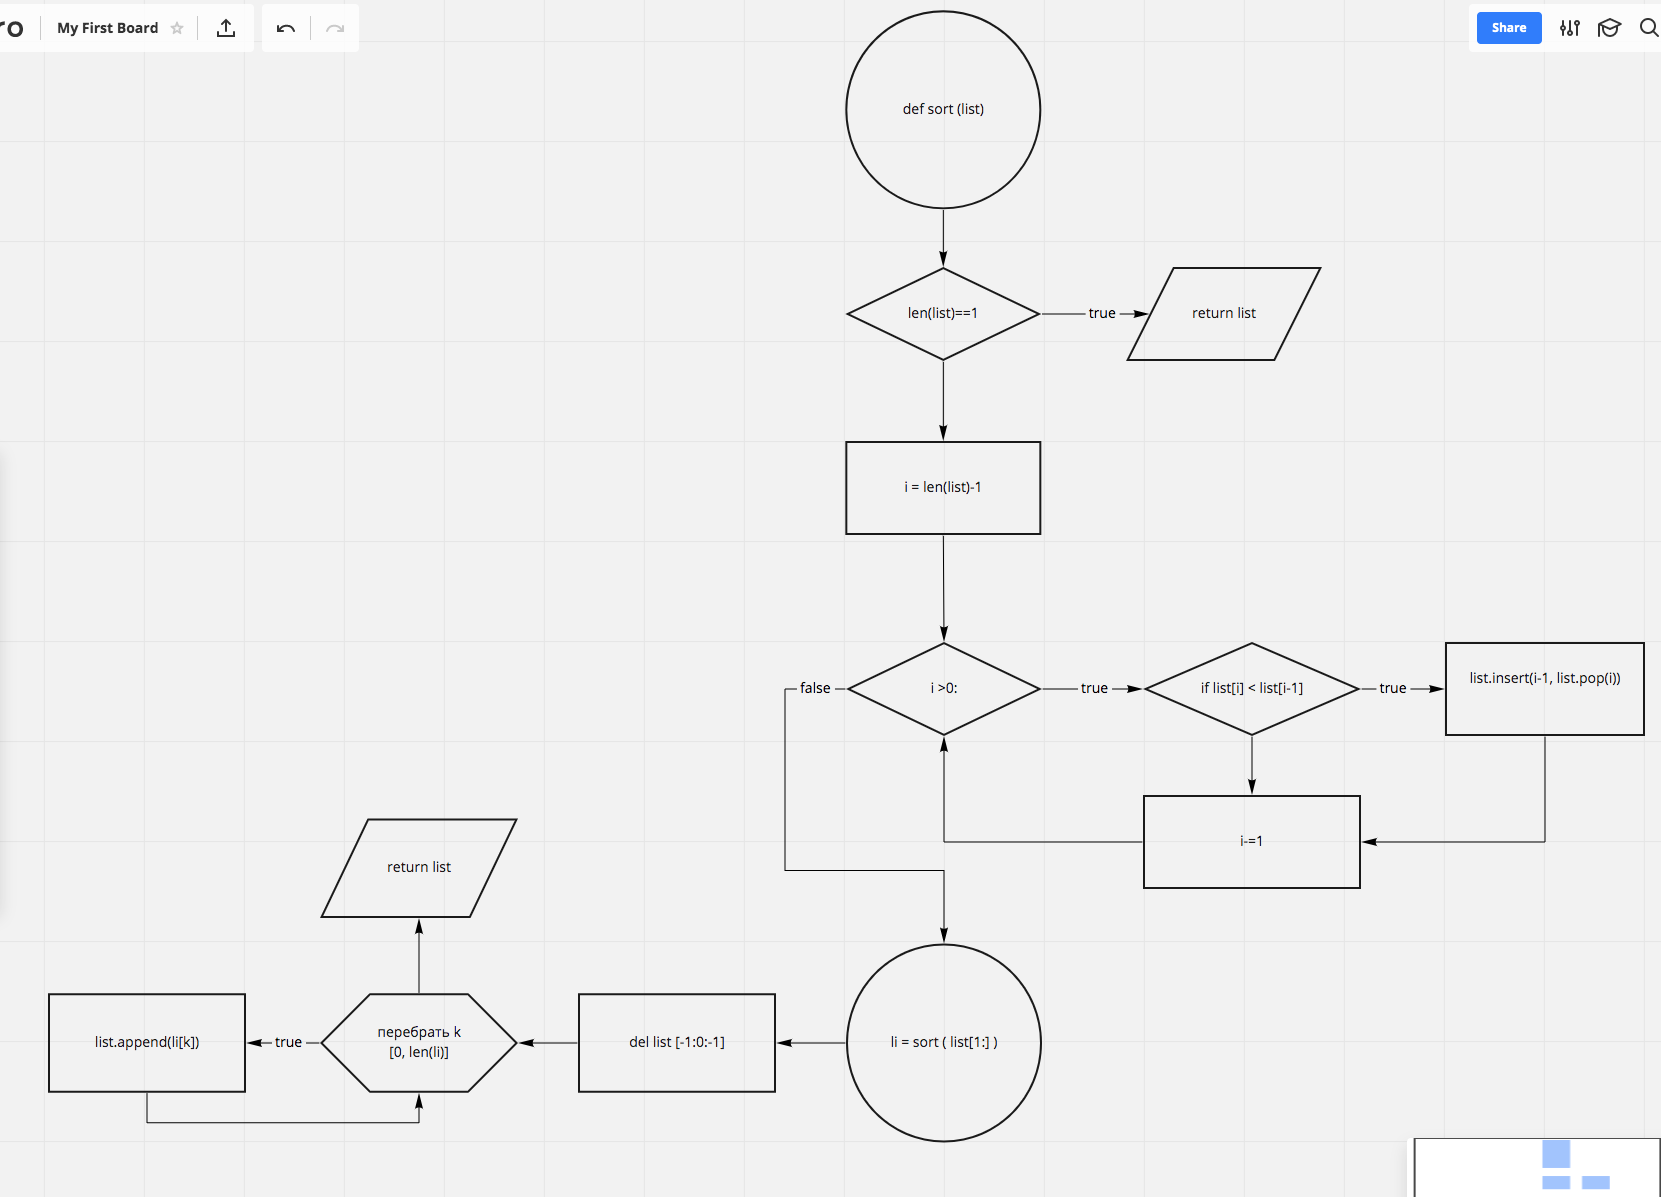
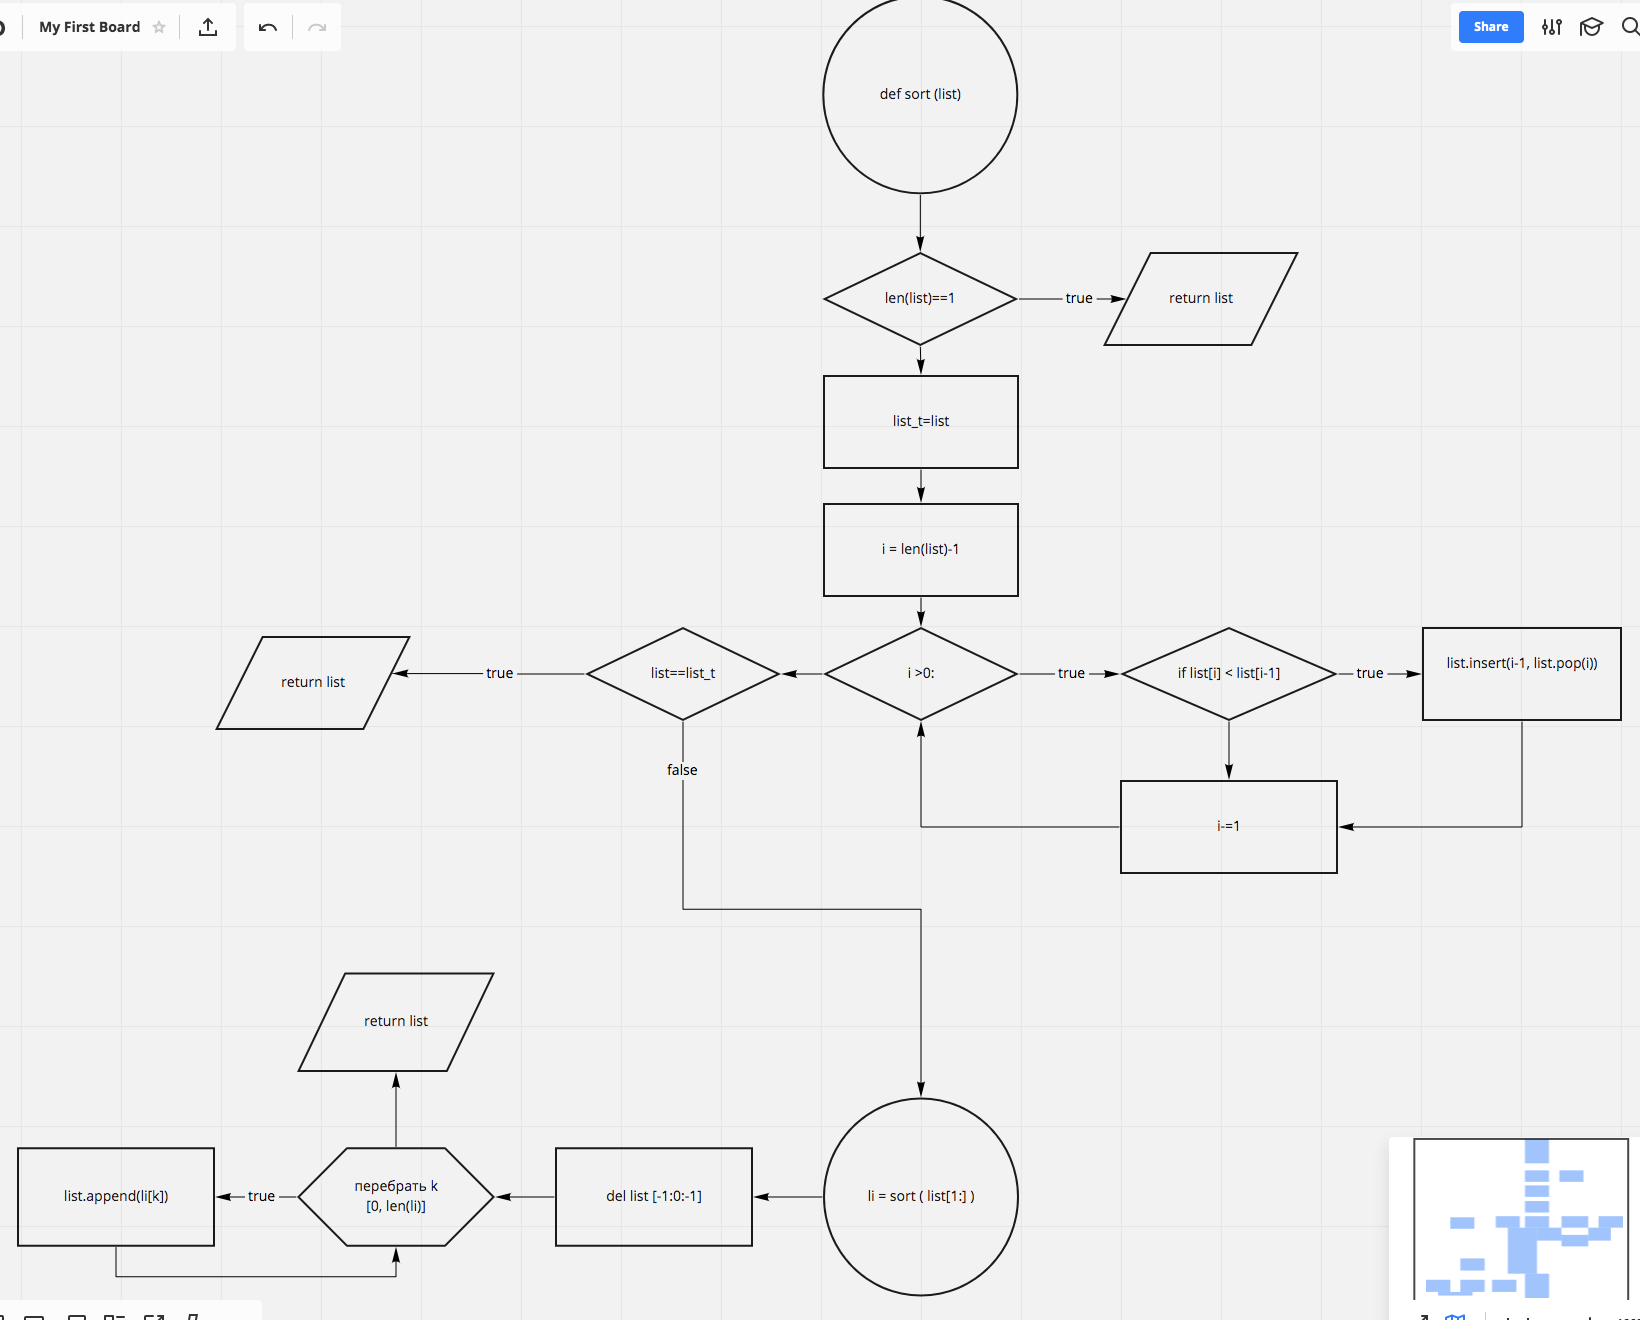
Реализована исходная задача Обновлена блок-схема

diff --git a/program.py b/program.py
@@ -2,6 +2,7 @@ def sort (list):
     if len(list)==1:
         return list
 
+    list_t=list
     i=len(list)-1
 
     while i>0:
@@ -9,14 +10,16 @@ def sort (list):
             list.insert(i-1, list.pop(i))
         i-=1
 
-    li = sort (list[1:])
-    del list[-1:0:-1]
+    if list==list_t:
+        return list
+    else:
+        li = sort (list[1:])
+        del list[-1:0:-1]
 
+        for k in range (0, len(li)):
+            list.append(li[k])
 
-    for k in range (0, len(li)):
-        list.append(li[k])
-
-    return list
+        return list
 
 list=[]
 
